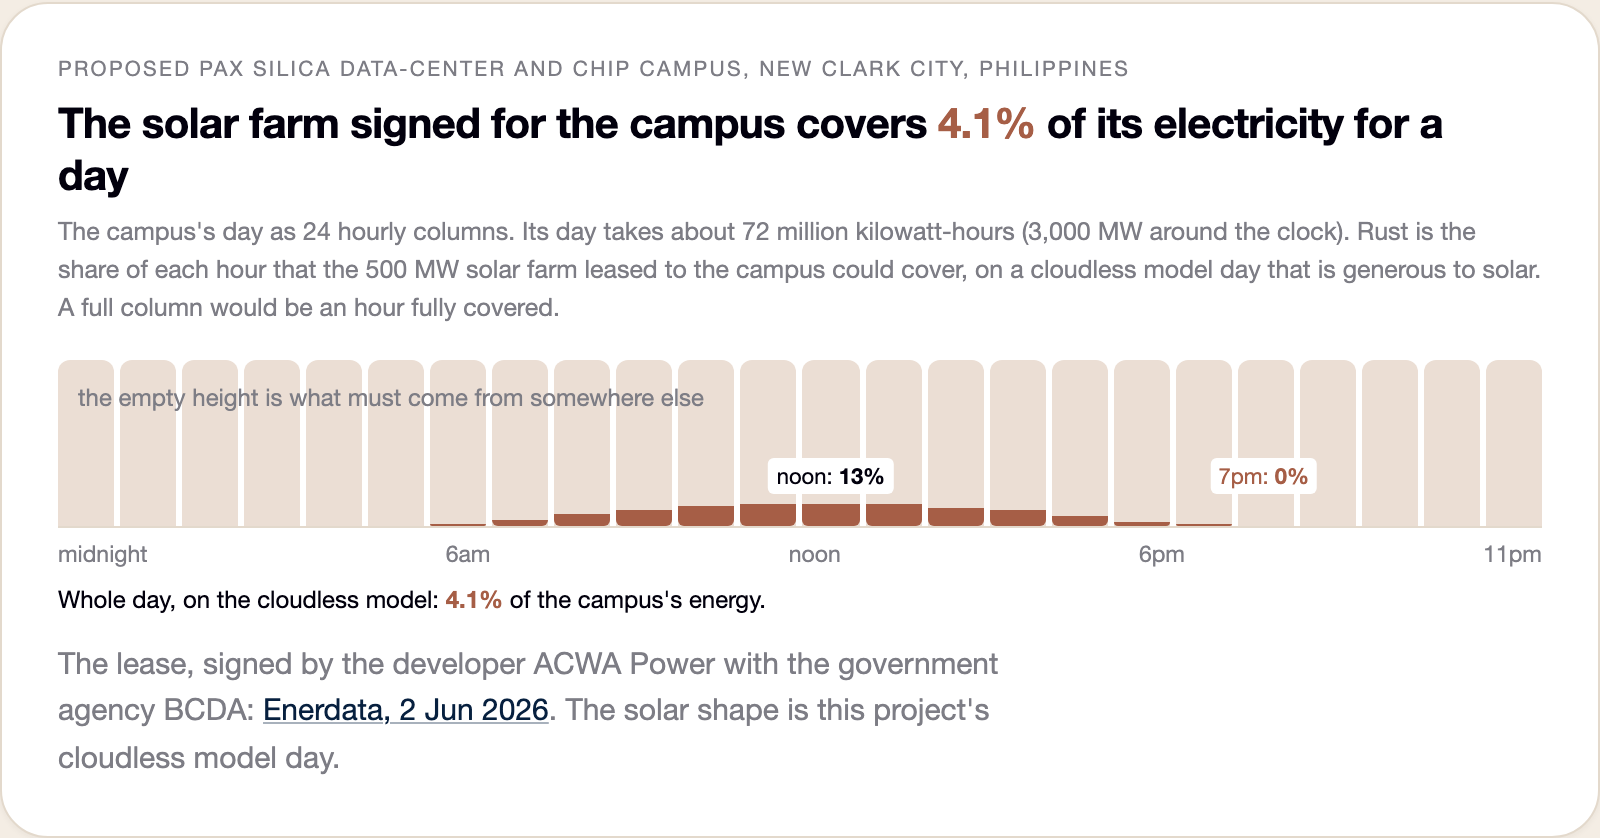
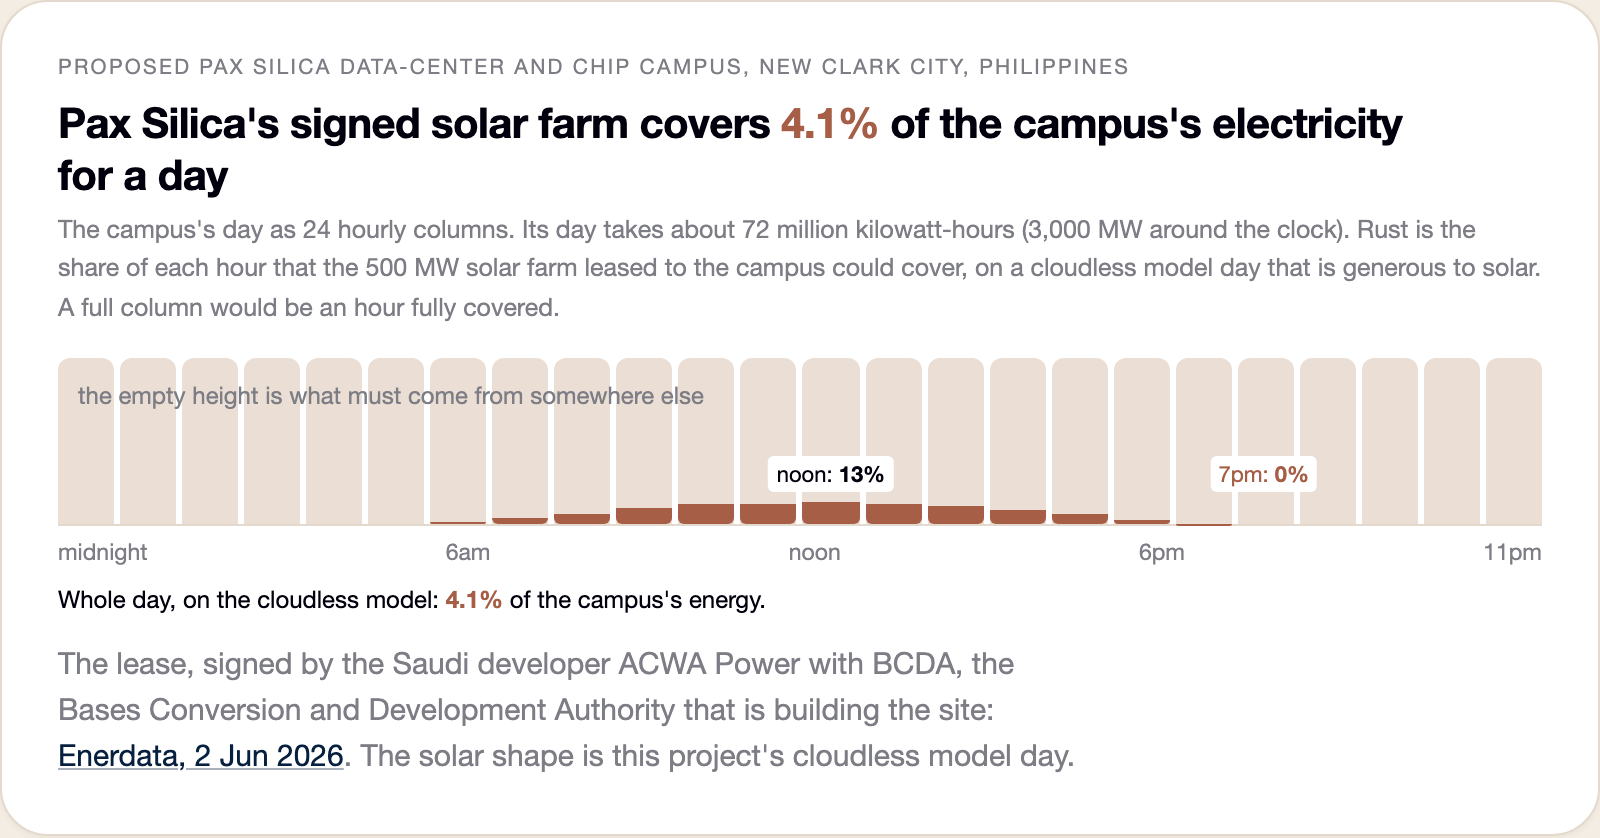
Name Pax Silica and spell out every acronym on each chart
Titles say Pax Silica instead of the campus, so a chart lifted out of the page
still names its subject. BCDA, NGCP and IEMOP now carry their full names where
they are used, MW and kWh are spelled out once per card, and BGC, PSA, MWh, kV
and Q1 are written out. Cold readers with no context also found the
own-station card hid its 3,000 MW total in a footnote and left its narrowest
segment unlabeled, so the subtitle carries the total and the segment carries a
short label with the homes comparison on its own line. Legend chips wrap, which
fixes 55px of overflow the longer labels caused at phone width.

diff --git a/web/pax-silica.html b/web/pax-silica.html
@@ -57,9 +57,11 @@
     color:#fff; font-size:12.5px; white-space:nowrap; opacity:0; transition:opacity .4s .9s; }
   .on .seg span{ opacity:1; }
   .seg-legend{ display:flex; flex-wrap:wrap; gap:7px 18px; margin:9px 0 0; font-size:12.5px; }
-  .seg-legend .chip{ white-space:nowrap; }
-  .seg-legend .chip i{ display:inline-block; width:9px; height:9px; border-radius:2px;
-    margin-right:5px; vertical-align:-1px; }
+  /* the chip text wraps: a no-wrap chip long enough to name its number will
+     run past a phone-width card */
+  .seg-legend .chip{ display:flex; align-items:flex-start; gap:6px; max-width:100%; }
+  .seg-legend .chip i{ flex:0 0 auto; width:9px; height:9px; border-radius:2px;
+    margin-top:4px; }
 
   /* the wires river reveals left to right */
   #wires-flow{ clip-path:inset(0 100% 0 0); transition:clip-path 1.2s cubic-bezier(.22,.9,.35,1); }
@@ -181,7 +183,7 @@ own June 2026 bulletins</a> agree on the Visayas number: evening peaks of
 <div class="fig" id="fig-grids" style="--accent:#A65E46">
   <button class="replay" data-replay="fig-grids">replay</button>
   <div class="figkick">Proposed Pax Silica data-center and chip campus, New Clark City, Philippines</div>
-  <div class="figtitle">The campus would use more power than the <em class="pop">entire Visayas grid</em></div>
+  <div class="figtitle">Pax Silica would use more power than the <em class="pop">entire Visayas grid</em></div>
   <div class="figsub">Each block's area is the electricity used, in megawatts (MW).
   The three pale blocks are the Philippines' three island power grids, each at its
   busiest recorded moment across 105 archived days (7 Apr to 20 Jul 2026). The
@@ -190,16 +192,19 @@ own June 2026 bulletins</a> agree on the Visayas number: evening peaks of
   too.</div>
   <div class="blocks" id="grid-blocks"></div>
   <p class="srcline">Grid peaks: computed from the published 5-minute dispatch
-  files of IEMOP, the Philippine electricity market operator, 7 Apr to 20 Jul 2026,
+  files of IEMOP, the Independent Electricity Market Operator of the Philippines,
+  7 Apr to 20 Jul 2026,
   archived and documented <a href="methodology.html">in this project's
-  methodology</a>; the Philippine grid operator NGCP's own
+  methodology</a>; the grid operator NGCP, the National Grid Corporation of the
+  Philippines, in its own
   <a href="https://www.gmanetwork.com/news/money/economy/991469/ngcp-visayas-grid-yellow-alert-june-15-2026/story/">June 2026
   bulletins</a> put Visayas evening peaks at 2,384 to 2,482 MW, in line with
   the 2,744 shown. Campus figure: BCDA president Joshua Bingcang via
   <a href="https://www.gmanetwork.com/news/money/economy/995915/pax-silica-ai-hub-to-consume-3-gigawatts-at-full-development-bcda/story/">GMA
   News, 23 Jul 2026</a>, with BCDA's own upper figure of 5,000 MW via
   <a href="https://business.inquirer.net/596398/pax-silicas-mammoth-power-needs-draw-maharlika-foreign-interest">Inquirer
-  Business</a>. BCDA is the government agency developing the site. Homes:
+  Business</a>. BCDA is the Bases Conversion and Development Authority, the
+  Philippine government agency developing the site. Homes:
   division by the 200 kilowatt-hours a month that Meralco, the utility serving
   Metro Manila, calls a typical household
   (<a href="https://company.meralco.com.ph/news-and-advisories/higher-residential-rates-july-2026">its
@@ -218,7 +223,7 @@ sunset, and count what it covers of the campus's 72,000 MWh day.</p>
 
 <div class="fig" id="fig-acwa" style="--accent:#A65E46">
   <div class="figkick">Proposed Pax Silica data-center and chip campus, New Clark City, Philippines</div>
-  <div class="figtitle">The solar farm signed for the campus covers <em class="pop">4.1%</em> of its electricity for a day</div>
+  <div class="figtitle">Pax Silica's signed solar farm covers <em class="pop">4.1%</em> of the campus's electricity for a day</div>
   <div class="figsub">The campus's day as 24 hourly columns. Its day takes about
   72 million kilowatt-hours (3,000 MW around the clock). Rust is the share of each
   hour that the 500 MW solar farm leased to the campus could cover, on a cloudless
@@ -227,8 +232,8 @@ sunset, and count what it covers of the campus's 72,000 MWh day.</p>
   <div class="daycells" id="acwa-cells"></div>
   <div class="dayaxis"><span>midnight</span><span>6am</span><span>noon</span><span>6pm</span><span>11pm</span></div>
   <div class="cellnote" id="acwa-note"></div>
-  <p class="srcline">The lease, signed by the developer ACWA Power with the
-  government agency BCDA:
+  <p class="srcline">The lease, signed by the Saudi developer ACWA Power with BCDA, the
+  Bases Conversion and Development Authority that is building the site:
   <a href="https://www.enerdata.net/publications/daily-energy-news/acwa-power-secures-site-500-mw-solar-bess-project-philippines.html">Enerdata,
   2 Jun 2026</a>. The solar shape is this project's cloudless model day.</p>
 </div>
@@ -242,7 +247,7 @@ Solar's 3,500 MW on 3,500 hectares one province over</a>, that is
 <div class="fig" id="fig-land" style="--accent:#A65E46">
   <button class="replay" data-replay="fig-land">replay</button>
   <div class="figkick">Proposed Pax Silica data-center and chip campus, New Clark City, Philippines</div>
-  <div class="figtitle">Running the campus on solar power alone would need <em class="pop">122 km&#178;</em> of panels</div>
+  <div class="figtitle">Running Pax Silica on solar power alone would need <em class="pop">122 km&#178;</em> of panels</div>
   <div class="figsub">Covering the campus's 3,000 MW around the clock from sunlight
   alone would take about 12,200 MW of panels, which is 122 km&#178; at the land a real
   Philippine solar farm uses (MTerra Solar, 1 hectare per megawatt). The square is
@@ -254,15 +259,16 @@ Solar's 3,500 MW on 3,500 hectares one province over</a>, that is
   <p class="fignote">For scale, all of New Clark City covers 94.5 km² and MTerra
   Solar, the biggest solar-and-battery build anywhere, covers 35 km². The 11 dark
   hours would also need about 33 million kilowatt-hours of batteries, 7 times the
-  4,500 MWh MTerra Solar is building.</p>
+  4,500 megawatt-hours MTerra Solar is building.</p>
   <p class="srcline">MTerra Solar:
   <a href="https://www.meralcopowergen.com.ph/mterra-solar-project-breaks-ground-a-monumental-milestone-in-the-philippines-renewable-energy-transition/">Meralco PowerGen</a>,
   <a href="https://www.pv-magazine-australia.com/2024/11/22/worlds-largest-3-5-gw-terra-solar-project-breaks-ground-in-the-philippines/">pv-magazine</a>,
   <a href="https://en.wikipedia.org/wiki/Meralco_Terra_Solar_Farm">Wikipedia</a>.
   Areas: PSA via Wikipedia
   (<a href="https://en.wikipedia.org/wiki/Makati">Makati</a>,
-  <a href="https://en.wikipedia.org/wiki/Bonifacio_Global_City">BGC</a>,
-  <a href="https://en.wikipedia.org/wiki/New_Clark_City">New Clark City</a>).</p>
+  <a href="https://en.wikipedia.org/wiki/Bonifacio_Global_City">Bonifacio Global
+  City</a>, <a href="https://en.wikipedia.org/wiki/New_Clark_City">New Clark
+  City</a>). PSA is the Philippine Statistics Authority.</p>
 </div>
 </section>
 
@@ -279,12 +285,13 @@ no path at all.</p>
 <div class="fig" id="fig-wires" style="--accent:#07203F">
   <button class="replay" data-replay="fig-wires">replay</button>
   <div class="figkick">Proposed Pax Silica data-center and chip campus, New Clark City, Philippines</div>
-  <div class="figtitle">Today's power lines can deliver only <em class="pop">a quarter</em> of what the campus needs</div>
+  <div class="figtitle">Today's power lines can deliver only <em class="pop">a quarter</em> of what Pax Silica needs</div>
   <div class="figsub">A tank the power grid must fill every hour, measured in
   megawatts (MW). The navy fill is everything the site's two existing power lines
   can deliver, worked out by this project's grid model for 7pm on 25 Jun 2026.</div>
   <div id="wires-flow" style="margin-bottom:2px"></div>
-  <p class="srcline">NGCP, the Philippine grid operator, does not publish what its
+  <p class="srcline">NGCP, the National Grid Corporation of the Philippines, does
+  not publish what its
   lines carry, so this model uses the standard rating for a 230 kV line. The limit
   moves between 699 and 776 MW through the day, because other power sharing the same
   lines rises and falls. Method and map in
@@ -301,8 +308,8 @@ are the slow part:</p>
 <div class="fig tlwrap" id="fig-record" style="--accent:#A65E46">
   <div class="figkick">Proposed Pax Silica data-center and chip campus, New Clark City, Philippines</div>
   <div class="figtitle">The last two big Philippine grid builds each took <em class="pop">about a year</em> between first power and full service</div>
-  <div class="figsub">The two most recent big builds by NGCP, the Philippine grid
-  operator, measured in calendar time from the day each first carried power to the
+  <div class="figsub">The two most recent big builds by NGCP, the National Grid
+  Corporation of the Philippines, measured in calendar time from the day each first carried power to the
   day it ran at full service. The rust band inside the first bar is a nine-month
   court order that stopped the work, which is most of why that one took 13 months.
   Amounts are in Philippine pesos.</div>
@@ -318,12 +325,12 @@ are the slow part:</p>
   </div>
   <div class="strip">
     <div class="name">The power substation promised for the campus, on its own
-    2026-to-2028 axis. The dashed bar runs from campus construction starting
-    (Q1 2028) to the substation being due (end 2028).</div>
+    2026-to-2028 axis. The dashed bar runs from campus construction starting, in
+    the first quarter of 2028, to the substation being due at the end of 2028.</div>
     <div class="tl" id="tl-substation"></div>
   </div>
-  <p class="srcline">Buying the right of way across private land is the delay NGCP
-  itself names most often. The campus substation
+  <p class="srcline">Buying the right of way across private land is the delay the
+  grid operator itself names most often. The campus substation
   (<a href="https://mb.com.ph/2026/05/25/us-pax-silica-alliance-prompts-7-billion-power-expansion-in-new-clark-city">Manila
   Bulletin, 25 May 2026</a>) is due at the end of 2028 while campus construction
   starts in the first quarter of 2028. That leaves nine months, against the year
@@ -347,7 +354,7 @@ every buyer on the grid.</p>
 <div class="fig" id="fig-priceb" style="--accent:#A65E46">
   <button class="replay" data-replay="fig-priceb">replay</button>
   <div class="figkick">Proposed Pax Silica data-center and chip campus, New Clark City, Philippines</div>
-  <div class="figtitle">Serving the campus from the grid would <em class="pop">double the modeled price</em> of Luzon electricity</div>
+  <div class="figtitle">Serving Pax Silica from the grid would <em class="pop">double the modeled price</em> of Luzon electricity</div>
   <div class="figsub">Every power plant on Luzon, the Philippines' biggest grid,
   lined up cheapest to priciest. A block's width is its megawatts and its height is
   its cost in pesos per kilowatt-hour. The last plant needed sets the price everyone
@@ -384,10 +391,12 @@ into your backup, and the backup comes down the same two circuits.</p>
 <div class="fig" id="fig-own" style="--accent:#A65E46">
   <button class="replay" data-replay="fig-own">replay</button>
   <div class="figkick">Proposed Pax Silica data-center and chip campus, New Clark City, Philippines</div>
-  <div class="figtitle" id="own-caption">The plan works. 2,500 MW of the campus's own power, the last 500 over the power lines</div>
-  <div class="figsub">The campus's announced plan to build its own power station,
-  modeled at 7pm on 25 Jun 2026 against the site's two existing power lines.</div>
+  <div class="figtitle" id="own-caption">Pax Silica's plan works. 2,500 MW of its own power, the last 500 over the power lines</div>
+  <div class="figsub">The bar is the 3,000 megawatts (MW) the campus needs every
+  hour. This is its announced plan to build its own power station, modeled at 7pm on
+  25 Jun 2026 against the site's two existing power lines.</div>
   <div class="stack" id="own-stack"></div>
+  <div class="cellnote" id="own-note"></div>
   <p class="srcline">The 2,500 MW station is a chosen size, not an announced
   project. Full working in
   <a href="https://github.com/xmpuspus/power-dispatch-studio/blob/main/docs/pax-silica-embedded.md">the deliverability note</a>;
@@ -408,14 +417,14 @@ and the division is simple. Here is that number three ways.</p>
 <div class="fig" id="fig-water" style="--accent:#07203F">
   <button class="replay" data-replay="fig-water">replay</button>
   <div class="figkick">Proposed Pax Silica data-center and chip campus, New Clark City, Philippines</div>
-  <div class="figtitle">The water the campus asked for would serve <em class="pop">1.4 to 2 times Makati's population</em></div>
+  <div class="figtitle">The water Pax Silica asked for would serve <em class="pop">1.4 to 2 times Makati's population</em></div>
   <div class="figsub">One drop is 5 million liters a day, and the drops are grouped
   in fives so they can be counted. A rust outline is the top of the announced range.
   A navy outline is a promise not built yet. Rust is the campus, navy is water people
   already use. Makati is a city in Metro Manila.</div>
   <div class="droprow">
-    <div class="dlabel"><b>What the campus would drink</b>, the figure from BCDA,
-    the government agency building the site</div>
+    <div class="dlabel"><b>What Pax Silica would drink</b>, the figure from BCDA,
+    the Bases Conversion and Development Authority, which is building the site</div>
     <span id="drops-campus"></span>
   </div>
   <div class="droprow">
@@ -456,8 +465,7 @@ groups, and Aeta communities on the land, dispute it;
 puts potentially affected residents near 20,000 while BCDA counters that only
 about 10 farmers are directly affected</a>. No independent water balance for
 the site has been published. That absence is the finding.</p>
-<p class="whence">BCDA is the Bases Conversion and Development Authority, the
-Philippine government agency developing New Clark City. Sources:
+<p class="whence">Sources:
 <a href="https://businessmirror.com.ph/2026/07/23/bcda-pax-silica-development-to-proceed-under-marcos-admin-creating-up-to-190k-jobs/">BCDA via BusinessMirror, 23 Jul 2026</a>;
 <a href="https://businessmirror.com.ph/2026/07/22/local-water-source-enough-to-supply-pax-silica-operation-water-board/">NWRB, 22 Jul</a>;
 <a href="https://www.gmanetwork.com/news/topstories/regions/996145/explainer-how-would-pax-silica-sustain-its-water-demand/story/">GMA explainer</a>;
@@ -504,7 +512,7 @@ these choices; none of them moves enough to change which bars are longer.</div>
 <li>NGCP Capas-area 230 kV substation, P6.95B, end-2028: <a href="https://mb.com.ph/2026/05/25/us-pax-silica-alliance-prompts-7-billion-power-expansion-in-new-clark-city">Manila Bulletin, 25 May 2026</a>, from the NGCP transmission development plan.</li>
 <li>Hermosa-San Jose 500 kV record: <a href="https://ngcp.ph/article?cid=16897">ngcp.ph article 16897</a>. Mindanao-Visayas link: <a href="https://www.ngcp.ph/article?cid=16636">ngcp.ph article 16636</a>.</li>
 <li>MTerra Solar 3,500 MW / 3,500 ha / 4,500 MWh: <a href="https://www.meralcopowergen.com.ph/mterra-solar-project-breaks-ground-a-monumental-milestone-in-the-philippines-renewable-energy-transition/">Meralco PowerGen</a>, <a href="https://www.pv-magazine-australia.com/2024/11/22/worlds-largest-3-5-gw-terra-solar-project-breaks-ground-in-the-philippines/">pv-magazine</a>, and <a href="https://en.wikipedia.org/wiki/Meralco_Terra_Solar_Farm">Wikipedia</a>.</li>
-<li>Meralco 200 kWh typical household: <a href="https://company.meralco.com.ph/news-and-advisories/higher-residential-rates-july-2026">Meralco July 2026 rate advisory</a>. Makati 2024 census and area: PSA via <a href="https://en.wikipedia.org/wiki/Makati">Wikipedia</a>, after the Embo transfer to Taguig. Other areas: <a href="https://en.wikipedia.org/wiki/Bonifacio_Global_City">BGC</a>, <a href="https://en.wikipedia.org/wiki/New_Clark_City">New Clark City</a>.</li>
+<li>Meralco 200 kWh typical household: <a href="https://company.meralco.com.ph/news-and-advisories/higher-residential-rates-july-2026">Meralco July 2026 rate advisory</a>. Makati 2024 census and area: PSA via <a href="https://en.wikipedia.org/wiki/Makati">Wikipedia</a>, after the Embo transfer to Taguig. Other areas: <a href="https://en.wikipedia.org/wiki/Bonifacio_Global_City">Bonifacio Global City</a>, <a href="https://en.wikipedia.org/wiki/New_Clark_City">New Clark City</a>.</li>
 <li>Angat allocation about 4,000 MLD at 46 CMS: <a href="https://www.philstar.com/nation/2026/07/20/2543243/mwss-water-allocation-reduced-anew">Philstar, 20 Jul 2026</a>. Metro per-person standard: MWSS via <a href="https://esmart.nhrc.upd.edu.ph/?p=1422">UP e-SMART</a>.</li>
 <li>NGCP Visayas alert bulletins, June 2026: <a href="https://www.gmanetwork.com/news/money/economy/991469/ngcp-visayas-grid-yellow-alert-june-15-2026/story/">GMA News</a>.</li>
 <li>Rice season water, 1,200 to 1,500 mm: <a href="https://www.fao.org/4/u5835e/u5835e04.htm">FAO irrigation manual</a>; IRRI.</li>
@@ -766,12 +774,12 @@ not NGCP official geometry. Announced figures may change; this page is dated
       pl.style.cssText = "position:absolute; left:0px; top:" + (py0 - 40)
         + "px; width:" + (tankX - 12) + "px; text-align:right; font-size:11.5px;"
         + "color:var(--muted); line-height:1.35;";
-      pl.innerHTML = "the site's only two power lines<br>(230 kV circuits)";
+      pl.innerHTML = "the site's only two power lines<br>(230 kilovolt circuits)";
     } else {
       var pl2 = el("div", "saxis", wrap);
       pl2.style.cssText = "position:absolute; left:0; right:0; top:" + (tankTop + tankH + 8)
         + "px; text-align:center; font-size:11.5px; color:var(--muted);";
-      pl2.textContent = "filled by the site's only two power lines (230 kV)";
+      pl2.textContent = "filled by the site's only two power lines";
     }
     if (!narrow){
       var pay = el("div", "payoff", wrap);
@@ -824,7 +832,7 @@ not NGCP official geometry. Announced figures may change; this page is dated
     var wl = el("div", "saxis", t3);
     wl.style.cssText = "position:absolute; left:calc(" + m3(2028, 0) + "% + 10px);"
       + "top:2px; font-size:10.5px; font-weight:600; color:var(--ink);";
-    wl.textContent = "Q1 2028";
+    wl.textContent = "early 2028";
     var wr = el("div", "saxis", t3);
     wr.style.cssText = "position:absolute; right:10px; top:2px; font-size:10.5px;"
       + "font-weight:600; color:var(--ink);";
@@ -947,8 +955,9 @@ not NGCP official geometry. Announced figures may change; this page is dated
       e.style.width = (w/need*100) + "%";
       e.querySelector("span").textContent = w > 0 ? label : "";
     }
-    cap.innerHTML = "The plan works. 2,500 MW of its own, the last 500 over the lines";
-    set("steel", 0, 500, "500 over the power lines");
+    cap.innerHTML = "Pax Silica's plan works. 2,500 MW of its own power, the last 500 over the power lines";
+    document.getElementById("own-note").textContent = "";
+    set("steel", 0, 500, "500 MW over the power lines");
     set("navy", 500, 2500, "2,500 MW of its own");
     set("coral", 3000, 0, "");
     setTimeout(function(){ fitSegLabels(s); }, reduced ? 0 : 1080);
@@ -956,12 +965,14 @@ not NGCP official geometry. Announced figures may change; this page is dated
     clearTimeout(fig._t); fig._t = setTimeout(stateB, 2600);
     function stateB(){
       var lim = P.wires.limit_7pm_mw;
-      cap.innerHTML = "Then one generator breaks, and <em class='pop'>331 MW</em> of the campus has no power";
+      cap.innerHTML = "Then one generator breaks, and <em class='pop'>331 MW</em> of Pax Silica has no power";
       set("navy", 0, 1900, "1,900 MW of its own");
-      set("steel", 1900, lim, fmt(lim) + " over the power lines");
-      set("coral", 1900 + lim, need - 1900 - lim, fmt(need - 1900 - lim)
-        + " MW: no source (the electricity of " + P.wires.own_gap_homes_million
-        + "M homes)");
+      set("steel", 1900, lim, fmt(lim) + " MW over the power lines");
+      set("coral", 1900 + lim, need - 1900 - lim, fmt(need - 1900 - lim) + " MW");
+      document.getElementById("own-note").innerHTML =
+        "The <b style='color:#A65E46'>" + fmt(need - 1900 - lim) + " MW</b> in rust "
+        + "has no source at all. That is the electricity of "
+        + P.wires.own_gap_homes_million + " million Philippine homes.";
       setTimeout(function(){ fitSegLabels(s); }, 1080);
     }
   }

diff --git a/docs/pax-silica-visuals.md b/docs/pax-silica-visuals.md
@@ -19,7 +19,7 @@ site does not. The smoother file to share is `docs/pax-silica-scale.mp4`. To
 re-make it after a page change, run `make serve`, then
 `python3 build/record_pax_silica_scale.py`.
 
-## The campus would use more power than the entire Visayas grid
+## Pax Silica would use more power than the entire Visayas grid
 
 ![One rectangle tiled by the three grids. Luzon is the giant piece, and a dashed rust block in the Visayas block's shape overhangs it](pax-silica-figs/grids.png)
 
@@ -37,7 +37,7 @@ month typical household. One thing to remember when reading it is that the
 grid pieces were measured while the dashed square is a promise on paper,
 and BCDA has said it could go as high as 5,000 MW.
 
-## The solar farm signed for the campus covers 4.1% of its electricity for a day
+## Pax Silica's signed solar farm covers 4.1% of the campus's electricity for a day
 
 ![Twenty-four tall columns, one per hour, almost empty, with small rust slivers rising around noon and vanishing by evening](pax-silica-figs/acwa.png)
 
@@ -50,7 +50,7 @@ from 7pm, exactly when the grid is busiest, it covers nothing. The gray is
 named right on the chart as what still has to come from somewhere else, and
 the whole day adds up to 4.1 percent.
 
-## Running the campus on solar power alone would need 122 km² of panels
+## Running Pax Silica on solar power alone would need 122 km² of panels
 
 ![A real map of Metro Manila with a large translucent rust square covering Manila, Makati, Pasay, and part of Taguig](pax-silica-figs/land.png)
 
@@ -68,7 +68,7 @@ would still need about 33 GWh of batteries, 7 times MTerra Solar's. The
 basemap is OpenStreetMap and CARTO, the same one the project's grid map
 uses.
 
-## Today's power lines can deliver only a quarter of what the campus needs
+## Today's power lines can deliver only a quarter of what Pax Silica needs
 
 ![A tank labeled with the campus's 3,000 MW need, filled only a quarter of the way in navy, fed by two small pipes](pax-silica-figs/wires.png)
 
@@ -96,7 +96,7 @@ construction starts in the first quarter of 2028 and the substation is due at
 the end of it, which leaves nine months against the year each build above
 took.
 
-## Serving the campus from the grid would double the modeled price of Luzon electricity
+## Serving Pax Silica from the grid would double the modeled price of Luzon electricity
 
 ![Plant blocks lined up cheapest to priciest. A dark demand line lands on the navy coal block, a white one on the rust oil block](pax-silica-figs/priceb.png)
 
@@ -115,7 +115,7 @@ modeled day. A what-if inside
 a model rather than a forecast, and it ignores that the wires to the site
 cap out at 770 MW in the first place.
 
-## Then one generator breaks, and 331 MW of the campus has no power
+## Then one generator breaks, and 331 MW of Pax Silica has no power
 
 ![A bar showing 1,900 MW of its own, 769 over the lines, and a rust 331 MW gap](pax-silica-figs/own.png)
 
@@ -130,7 +130,7 @@ can, so 331 MW of the campus has nothing behind it, the electricity of
 power does not remove the grid. It turns the grid into your backup, and
 the backup runs down the same two lines.
 
-## The water the campus asked for would serve 1.4 to 2 times Makati's population
+## The water Pax Silica asked for would serve 1.4 to 2 times Makati's population
 
 ![Rows of water drops. Rust drops for the campus, fewer navy for Makati, outlined for the promised pond, and a 100-square grid with 2 colored](pax-silica-figs/water.png)
 
